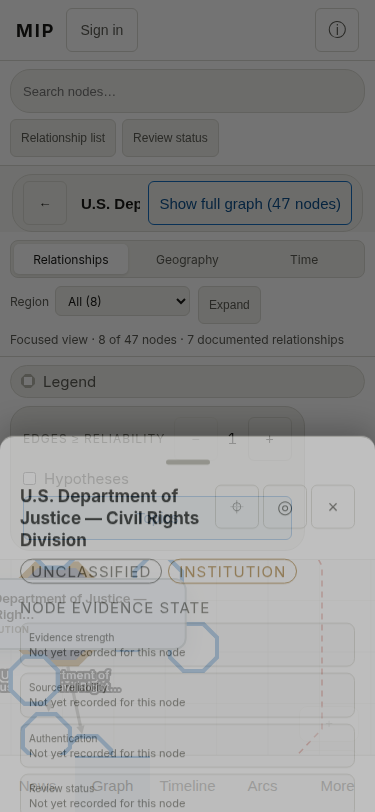
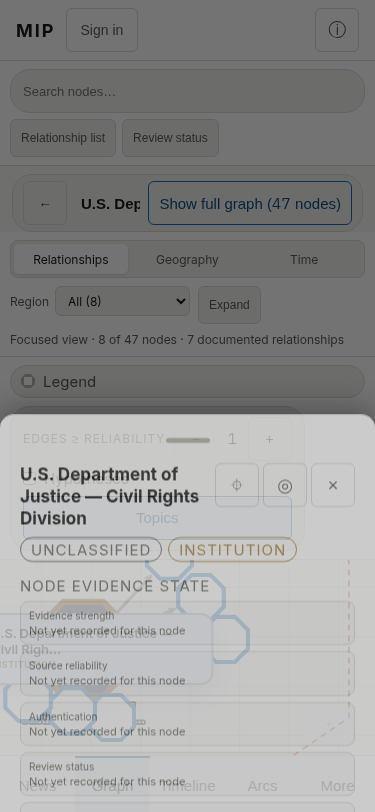
docs: record completed gate validation

diff --git a/verifier/gate_audit_live_notes_2026-08-19.md b/verifier/gate_audit_live_notes_2026-08-19.md
@@ -39,3 +39,19 @@ The reconciliation establishes two distinct conditions: **a read-path gap** for 
 The deployed globe uses **D3 `geoOrthographic`** with local `world-atlas/countries-110m.json` / `topojson-client` Natural Earth geometry. This was selected over a heavier WebGL globe because the requirement is a bounded, readable overlay inside an existing Cytoscape workspace: D3 supports drag rotation, keyboard rotation, visible graticules/borders, deterministic SVG hit targets, and source-backed marker sizing without introducing a second 3D rendering engine. Marker radius denotes only the count of confirmed location mentions at a displayed city; it does not imply event importance, reliability, or prevalence.
 
 A dedicated headless Chromium check ran against the live deployment at a **375 × 812** viewport. It confirmed the mobile breakpoint, opened the first graph hub, found the one eligible active card, tapped it, and observed the `Article panel` mobile bottom-sheet reader. The historical mobile-only failure was the graph integration path invoking an optional edge-clear callback with a null selection; the guarded callback now clears edge evidence only when a real edge is present, allowing the independent node selection callback to open the reader. Desktop remains unaffected because it uses the same node selection state but desktop card presentation.
+
+## Post-Deploy News Read-Path Target
+
+Commit `691194b` was pushed to the authorized v2 repository. A cache-busted live visit loads the 838-article corpus, and filtering to **U.S. Department of Justice Office of Inspector General** yields the single **DOJ OIG announces audit initiation** record targeted for final verification of the reviewed-claim and linked-evidence display.
+
+The first cache-busted post-push live check still rendered the prior News detail bundle: the DOJ OIG record remained claim-empty and did not show the new **Linked evidence records** section. This is recorded as a **pending deployment propagation check**, not a source-data failure; the local production build and full regression suite passed before push.
+
+After the GitHub Pages workflow completed, a second cache-busted visit loaded the current News bundle shell and restored the target OIG record through the outlet filter. The record-detail content check follows separately.
+
+## Post-Deploy News Read-Path Result
+
+The completed GitHub Pages deployment now renders the target DOJ OIG record with its existing reviewed substantive claim and a separate **Linked evidence records** section containing a **primary document** link. The record still truthfully reports no structured framing markers and no additional `citations` rows, preserving the distinction between a reviewed claim-evidence link and a claim-level citation. This resolves the verified display/read-path gap without rebuilding or overwriting the broader extraction corpus.
+
+## Final Gate Validation
+
+The final regression run passed **285 / 285** tests, the production build completed successfully, and the reproducible 375 × 812 live mobile verifier passed with a reader panel opened from the active graph card. The post-deploy browser check confirmed the OIG reviewed claim and linked primary-document record on the public v2 site. The five gate criteria are therefore complete: Overview/Evidence separation, interactive overlaid globe, mobile graph-card reader, a scoped News provenance read-path correction backed by a corpus pattern audit, and the independently confirmed **47-node / 36-edge** graph census.

diff --git a/verifier/live_validation_log_2026-08-19.md b/verifier/live_validation_log_2026-08-19.md
@@ -81,3 +81,11 @@ The live Story Arc Overview now places **Arc age**, **Coverage over time**, the 
 
 
 The live Arc Evidence tab contains only the eight labelled **Attached source records** and an explicit note that Arc age, coverage, and milestone context appear in Overview. Each attached publisher record exposes an **Open in News Feed** control. The public **More** menu also opened correctly and exposes button-driven Source Comparison and Legal & Policy destinations; login remains intentionally out of scope.
+
+## Gate correction validation — commit 691194b
+
+The source-table graph census confirms **47 nodes** and **36 documented relationships**; no edge has a missing endpoint, self-reference, or duplicate `(source, target, type)` group. The live Graph labels use keyset-paginated reads of those source tables.
+
+The mobile graph reader was verified at a 375 × 812 viewport by a reproducible Chromium run: a hub selection created the one eligible mobile graph card, and tapping that card opened the `Article panel` bottom-sheet reader. The null edge-clear guard permits node selection to proceed on mobile.
+
+The live News record **DOJ OIG announces audit initiation** now renders its reviewed substantive claim and the separately labeled primary-document evidence record. Its empty framing-marker and citation sections remain explicit data gaps, not inferred neutrality or an absence of publisher attribution. This verifies the narrow read-path correction for existing cross-surface provenance without changing the wider extraction backlog.
